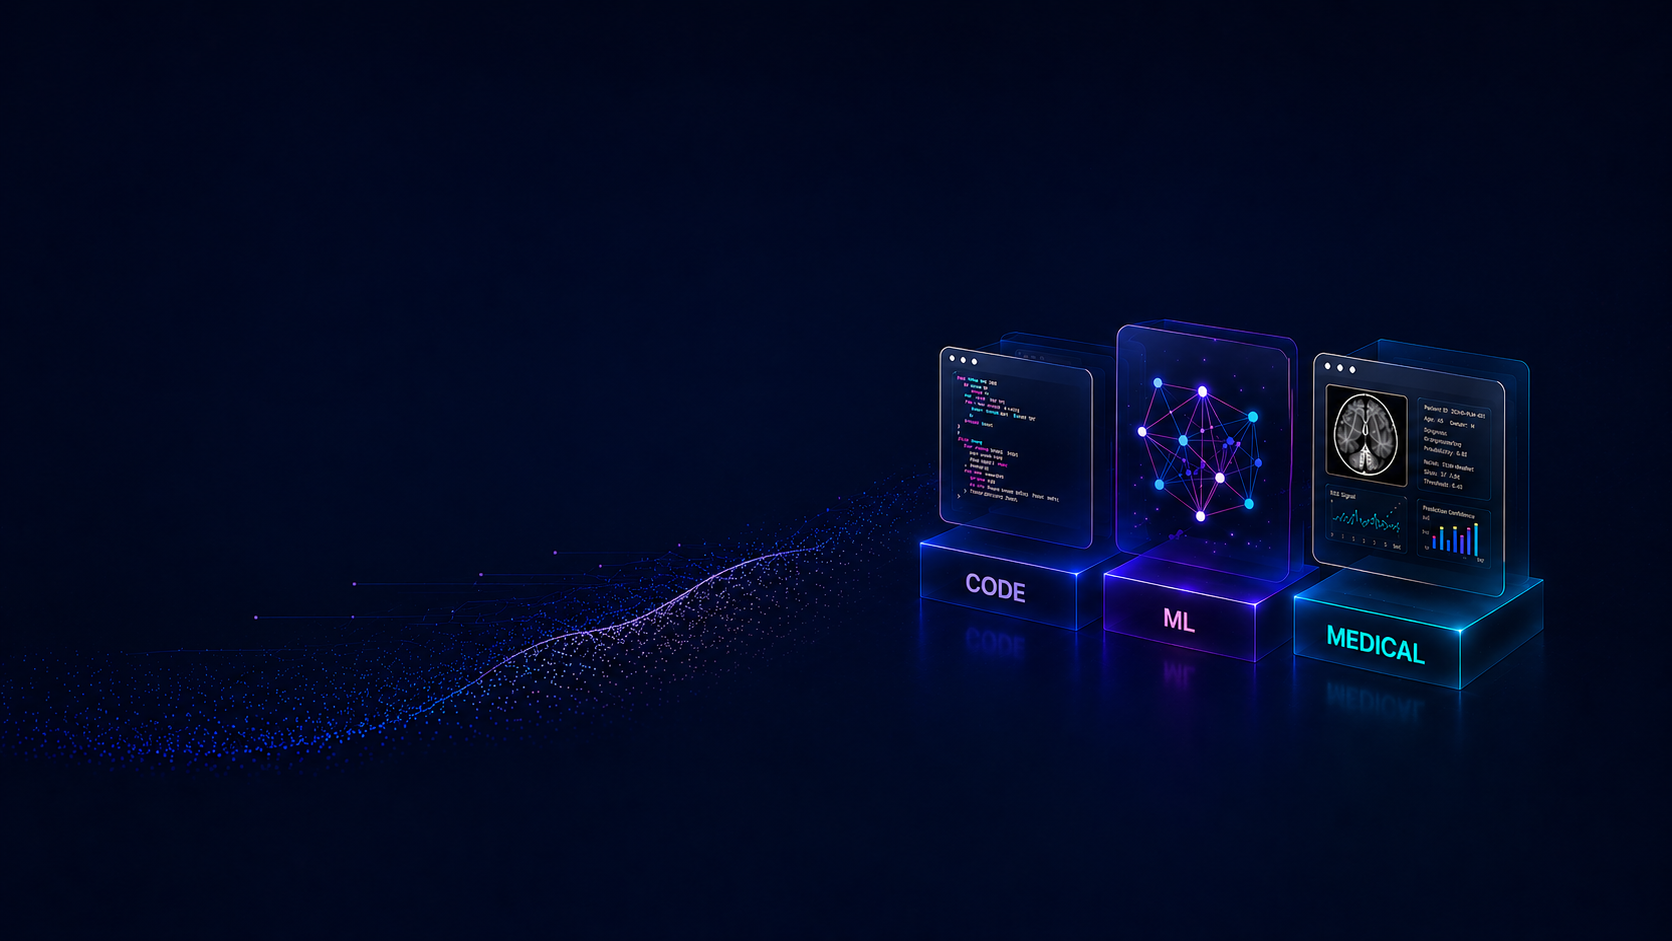
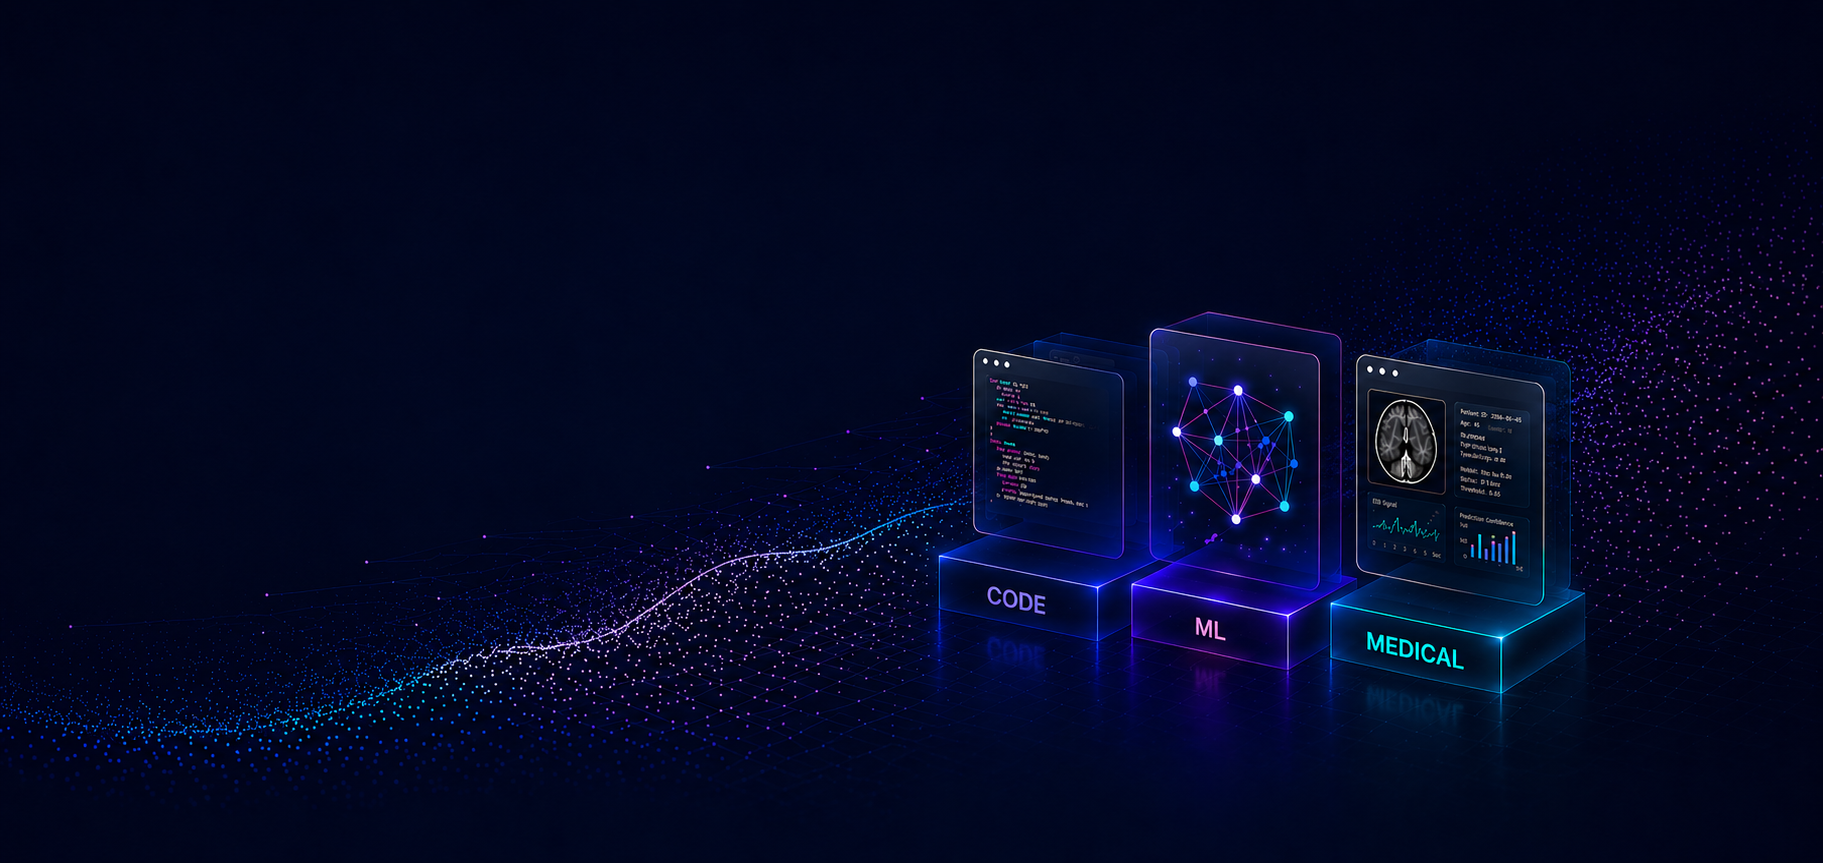
Refine homepage styling

Changed region(s): [[0.0, 0.3314, 0.9641, 0.9038]]

diff --git a/_styles/home.scss b/_styles/home.scss
@@ -1,15 +1,16 @@
 ---
 ---
 
-$stack: 860px;
+$page: 1200px;
+$stack: 900px;
 $home-research-overlap: 118px;
 
 .reveal-on-scroll {
   opacity: 0;
   transform: translateY(28px);
   transition:
-    opacity 0.7s ease,
-    transform 0.7s ease;
+    opacity 0.5s ease,
+    transform 0.5s ease;
 }
 
 .reveal-on-scroll.is-visible {
@@ -26,7 +27,7 @@ $home-research-overlap: 118px;
 }
 
 .home-section-label {
-  margin: 0 0 6px;
+  margin: 0 0 6px 2px;
   color: var(--gray);
   font-family: var(--code);
   font-size: 0.82rem;
@@ -48,9 +49,9 @@ $home-research-overlap: 118px;
 }
 
 .home-hero {
-  --hero-art-size: 1250px;
-  --hero-art-x: min(calc(50vw - 550px), calc(100vw - 1200px));
-  --hero-art-y: 70%;
+  --hero-art-size: 1650px;
+  --hero-art-x: min(calc(50vw - 820px), calc(100vw - 1450px));
+  --hero-art-y: 90%;
 
   position: relative;
   z-index: 1;
@@ -60,8 +61,7 @@ $home-research-overlap: 118px;
   color: #ffffff;
 }
 
-.home-hero::before,
-.home-hero::after {
+.home-hero::before {
   content: "";
   position: absolute;
   inset: 0;
@@ -70,17 +70,24 @@ $home-research-overlap: 118px;
 
 .home-hero::before {
   z-index: 0;
-  background-image: url("../images/background.png");
+  background:
+    linear-gradient(
+      90deg,
+      rgba(2, 8, 23, 0.96) 0%,
+      rgba(2, 8, 23, 0.72) clamp(40%, calc(40% - (100vw - $page)), 80%),
+      rgba(2, 8, 23, 0.1) clamp(60%, calc(60% - (100vw - $page)), 90%),
+      rgba(2, 8, 23, 0.2) clamp(80%, calc(80% - (100vw - $page)), 95%),
+      var(--hero-ink) 100%
+    ),
+    linear-gradient(
+      180deg,
+      rgba(2, 8, 23, 0.16) 70%,
+      rgba(2, 8, 23, 0.82) 100%
+    ),
+    url("../images/background.png");
   background-position: var(--hero-art-x) var(--hero-art-y);
   background-repeat: no-repeat;
   background-size: var(--hero-art-size) auto;
-}
-
-.home-hero::after {
-  z-index: 1;
-  background:
-    linear-gradient(90deg, rgba(2, 8, 23, 0.94) 0%, rgba(2, 8, 23, 0.68) 38%, rgba(2, 8, 23, 0.08) 72%),
-    linear-gradient(180deg, rgba(2, 8, 23, 0.16) 20%, rgba(2, 8, 23, 0.82) 100%);
 }
 
 .home-hero-inner {
@@ -113,7 +120,7 @@ $home-research-overlap: 118px;
   margin: 0;
   color: var(--hero-title);
   font-family: var(--title);
-  font-size: clamp(3.2rem, 7vw, 5rem);
+  font-size: clamp(3.2rem, 7vw, 4.7rem);
   font-weight: var(--bold);
   line-height: 1;
   letter-spacing: -0.03em;
@@ -177,7 +184,7 @@ $home-research-overlap: 118px;
   display: grid;
   grid-template-columns: repeat(4, minmax(0, 1fr));
   gap: 0;
-  max-width: 1200px;
+  max-width: $page;
   margin: -$home-research-overlap auto 0;
   padding: 22px;
   border: 1px solid var(--surface-border);
@@ -197,9 +204,9 @@ section[data-size="full"] > .home-research-overview {
   display: grid;
   justify-items: center;
   align-content: start;
-  gap: 10px;
-  min-height: 218px;
-  padding: 6px 18px 0;
+  gap: 12px;
+  min-height: 200px;
+  padding: 6px;
   border: 0;
   border-radius: 0;
   background: transparent;
@@ -251,7 +258,7 @@ section[data-size="full"] > .home-research-overview {
   flex-direction: column;
   align-items: center;
   justify-content: center;
-  gap: 9px;
+  gap: 4px;
   max-width: none;
   margin: 2px 0 0;
   padding: 0;
@@ -299,27 +306,6 @@ section[data-size="full"] > .home-research-overview {
   font-family: var(--body);
   font-size: 0.85rem;
   text-decoration: none;
-}
-
-.home-hero-panel .home-section-label {
-  color: var(--accent-muted);
-}
-
-.home-hero-panel .button:not([data-style="bare"]) {
-  background: linear-gradient(
-    180deg,
-    color-mix(in srgb, var(--primary) 74%, var(--surface-contrast) 26%) 0%,
-    color-mix(in srgb, var(--primary) 66%, var(--surface-raised) 34%) 100%
-  );
-  border-color: color-mix(in srgb, var(--primary) 30%, transparent);
-}
-
-.home-hero-panel .button:not([data-style="bare"]):hover {
-  background: linear-gradient(
-    180deg,
-    color-mix(in srgb, var(--primary) 68%, var(--surface-contrast) 32%) 0%,
-    color-mix(in srgb, var(--primary) 60%, var(--surface-raised) 40%) 100%
-  );
 }
 
 .home-block {
@@ -528,24 +514,6 @@ section[data-size="full"] > .home-research-overview {
   gap: 20px;
 }
 
-[data-dark="true"] .home-hero-panel {
-  border-color: rgba(255, 255, 255, 0.1);
-  background:
-    linear-gradient(
-      135deg,
-      color-mix(in srgb, var(--surface) 94%, #111214 6%) 0%,
-      color-mix(in srgb, var(--surface-raised) 88%, #15171a 12%) 52%,
-      color-mix(in srgb, var(--surface) 90%, #17191d 10%) 100%
-    );
-}
-
-[data-dark="true"] .home-hero-panel::before {
-  background:
-    radial-gradient(circle at top right, rgba(147, 167, 205, 0.12) 0, transparent 32%),
-    radial-gradient(circle at bottom left, rgba(255, 255, 255, 0.04) 0, transparent 26%),
-    linear-gradient(135deg, rgba(255, 255, 255, 0.03) 0%, transparent 60%);
-}
-
 [data-dark="true"] .home-hero-title {
   color: #f4f8ff;
 }
@@ -558,35 +526,10 @@ section[data-size="full"] > .home-research-overview {
   color: #d0d5dd;
 }
 
-[data-dark="true"] .home-hero-panel .home-section-label {
-  color: #8ea5ce;
-}
-
 [data-dark="true"] .home-hero-chips span {
   border-color: rgba(255, 255, 255, 0.08);
   background: var(--surface-contrast);
   color: #c7d4ea;
-}
-
-[data-dark="true"] .home-hero-panel .button:not([data-style="bare"]) {
-  background: linear-gradient(180deg, #59739e 0%, #4e678e 100%);
-  border-color: rgba(132, 155, 194, 0.21);
-}
-
-[data-dark="true"] .home-hero-panel .button:not([data-style="bare"]):hover {
-  background: linear-gradient(180deg, #526b95 0%, #475f85 100%);
-}
-
-[data-dark="true"] .home-hero-panel .button[data-style="bare"] {
-  border-color: rgba(255, 255, 255, 0.08);
-  background: rgba(255, 255, 255, 0.04);
-  color: #edf3ff;
-}
-
-[data-dark="true"] .home-hero-panel .button[data-style="bare"]:hover {
-  border-color: rgba(147, 167, 205, 0.28);
-  background: rgba(255, 255, 255, 0.08);
-  color: #ffffff;
 }
 
 :root[data-dark="true"] .home-block-title-link {
@@ -702,16 +645,10 @@ section[data-size="full"] > .home-research-overview {
 
 @media (max-width: $stack) {
   .home-hero {
-    --hero-art-y: 80%;
-    --hero-glow-x: calc(50% + clamp(0px, 8vw, 58px));
-
+    --hero-art-size: 1450px;
+    --hero-art-x: calc(100vw - 1300px);
+    --hero-art-y: 100%;
     min-height: 560px;
-  }
-
-  .home-hero::after {
-    background:
-      linear-gradient(90deg, rgba(2, 8, 23, 0.94) 0%, rgba(2, 8, 23, 0.76) 52%, rgba(2, 8, 23, 0.34) 100%),
-      linear-gradient(180deg, rgba(2, 8, 23, 0.04) 20%, rgba(2, 8, 23, 0.84) 100%);
   }
 
   .home-hero-inner {
@@ -747,10 +684,6 @@ section[data-size="full"] > .home-research-overview {
     gap: 10px;
   }
 
-  .home-hero-panel {
-    padding: 28px;
-  }
-
   .home-hero-title {
     max-width: none;
   }
@@ -767,16 +700,10 @@ section[data-size="full"] > .home-research-overview {
 
 @media (max-width: 640px) {
   .home-hero {
-    --hero-art-y: 50%;
-    --hero-glow-x: calc(50% - clamp(48px, 16vw, 110px));
-
+    --hero-art-size: 1450px;
+    --hero-art-x: calc(100vw - 1275px);
+    --hero-art-y: 75%;
     min-height: 480px;
-  }
-
-  .home-hero::after {
-    background:
-      linear-gradient(90deg, rgba(2, 8, 23, 0.94) 0%, rgba(2, 8, 23, 0.78) 58%, rgba(2, 8, 23, 0.62) 100%),
-      linear-gradient(180deg, rgba(2, 8, 23, 0.16) 40%, rgba(2, 8, 23, 0.82) 100%);
   }
 
   .home-hero-inner {

diff --git a/_styles/heading.scss b/_styles/heading.scss
@@ -17,7 +17,7 @@ h6 {
 h1 {
   margin: 0 0 32px;
   font-family: var(--title);
-  font-size: clamp(2.5rem, 5vw, 4.5rem);
+  font-size: clamp(2.5rem, 5vw, 4.2rem);
   font-weight: var(--regular);
   line-height: 0.98;
   text-transform: none;
